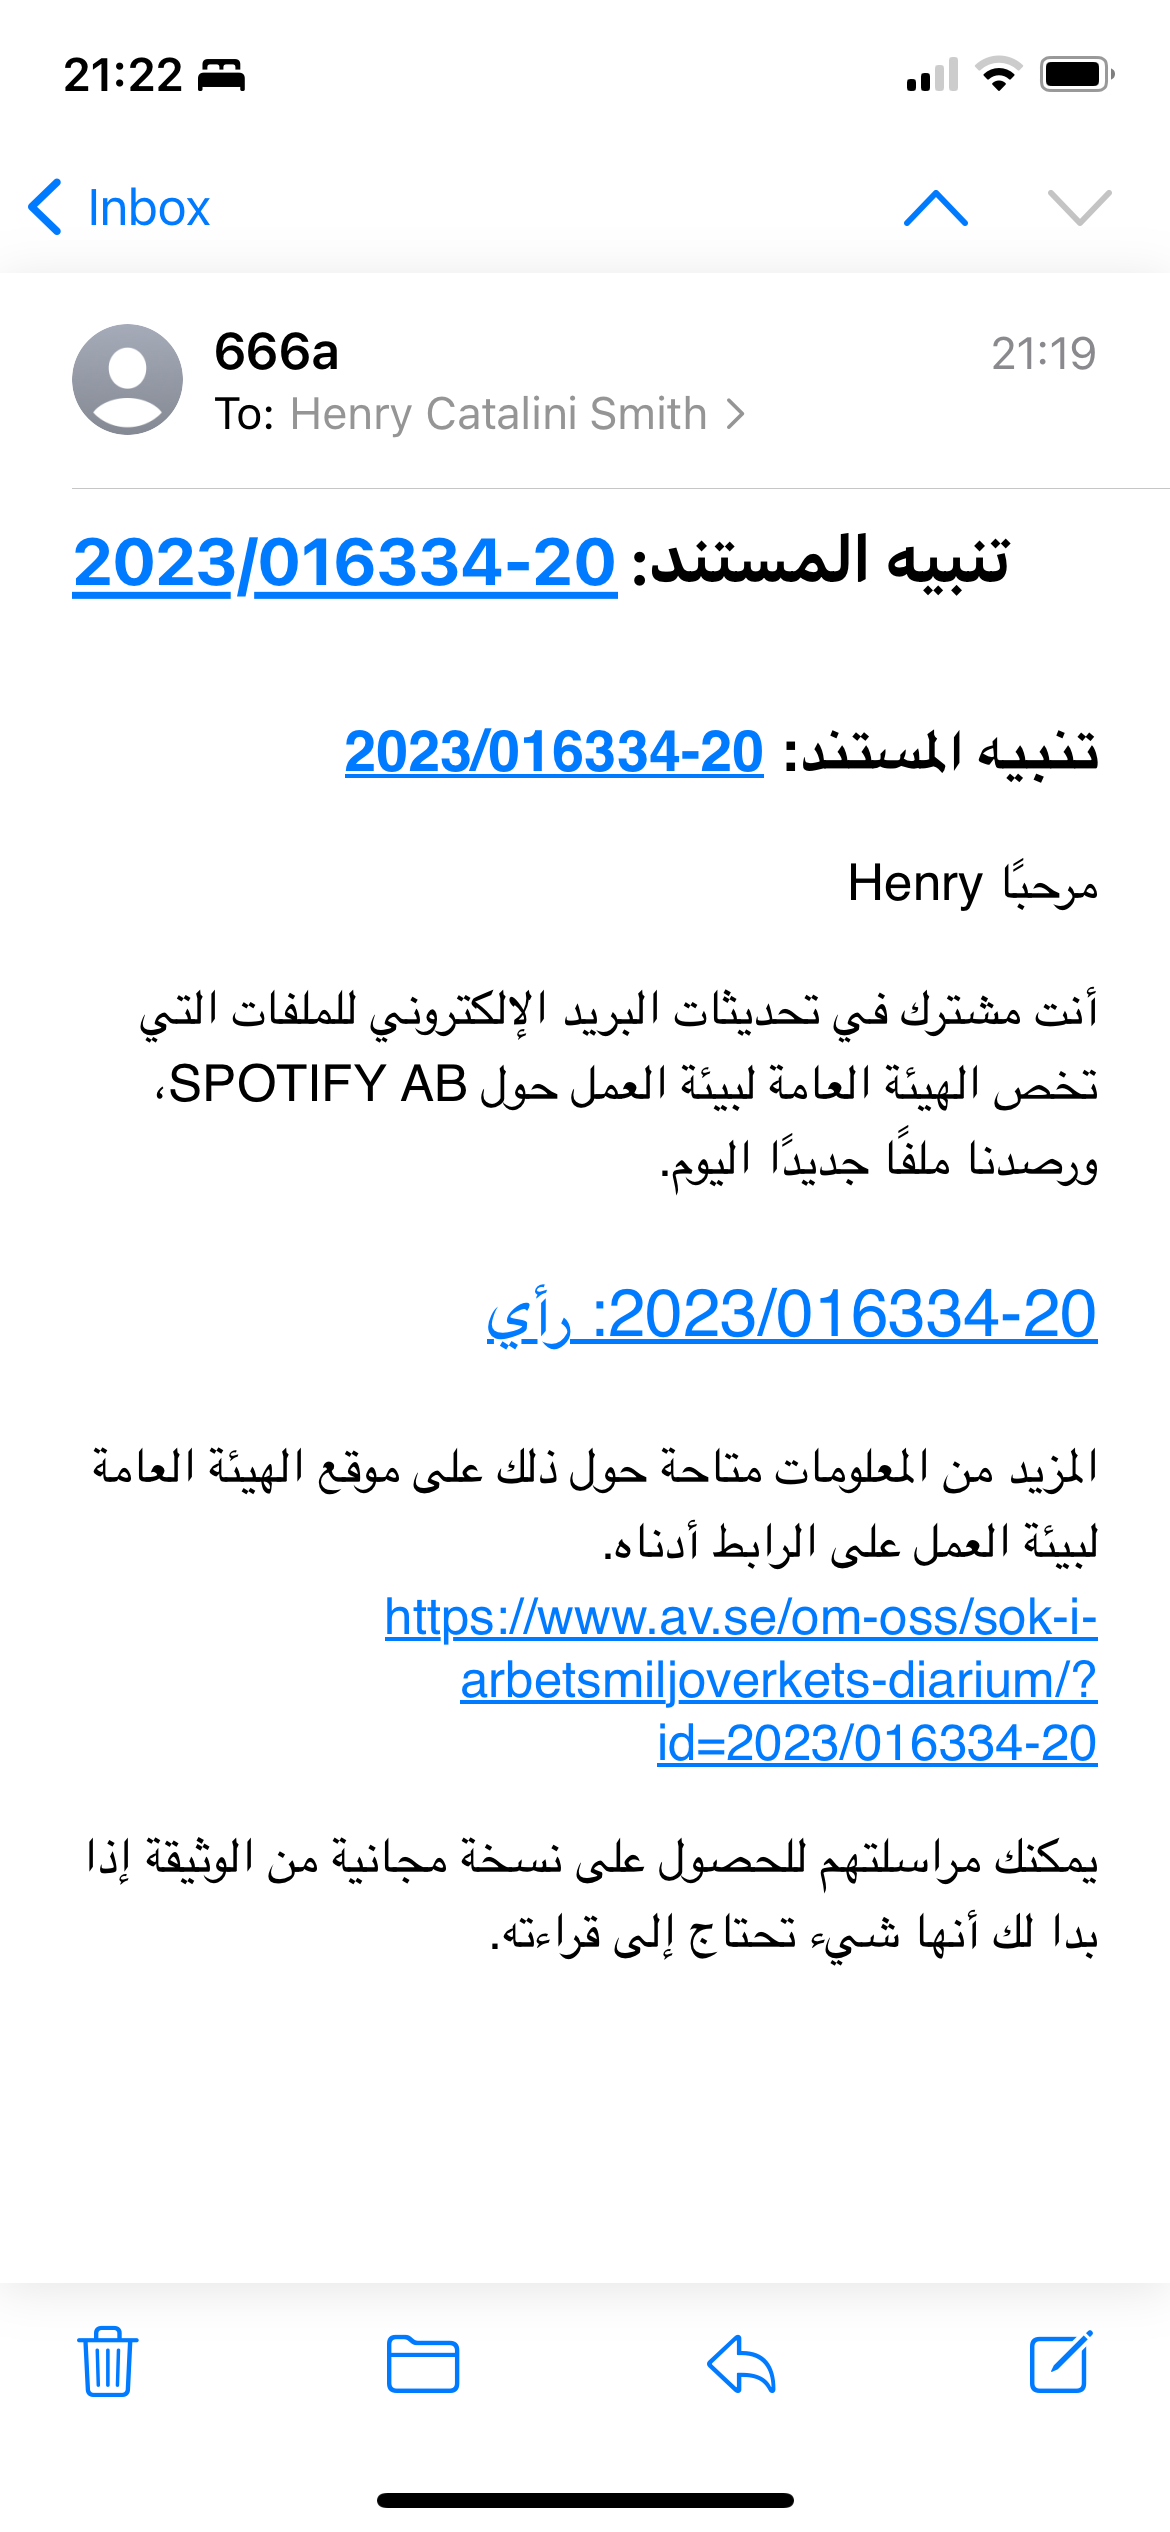
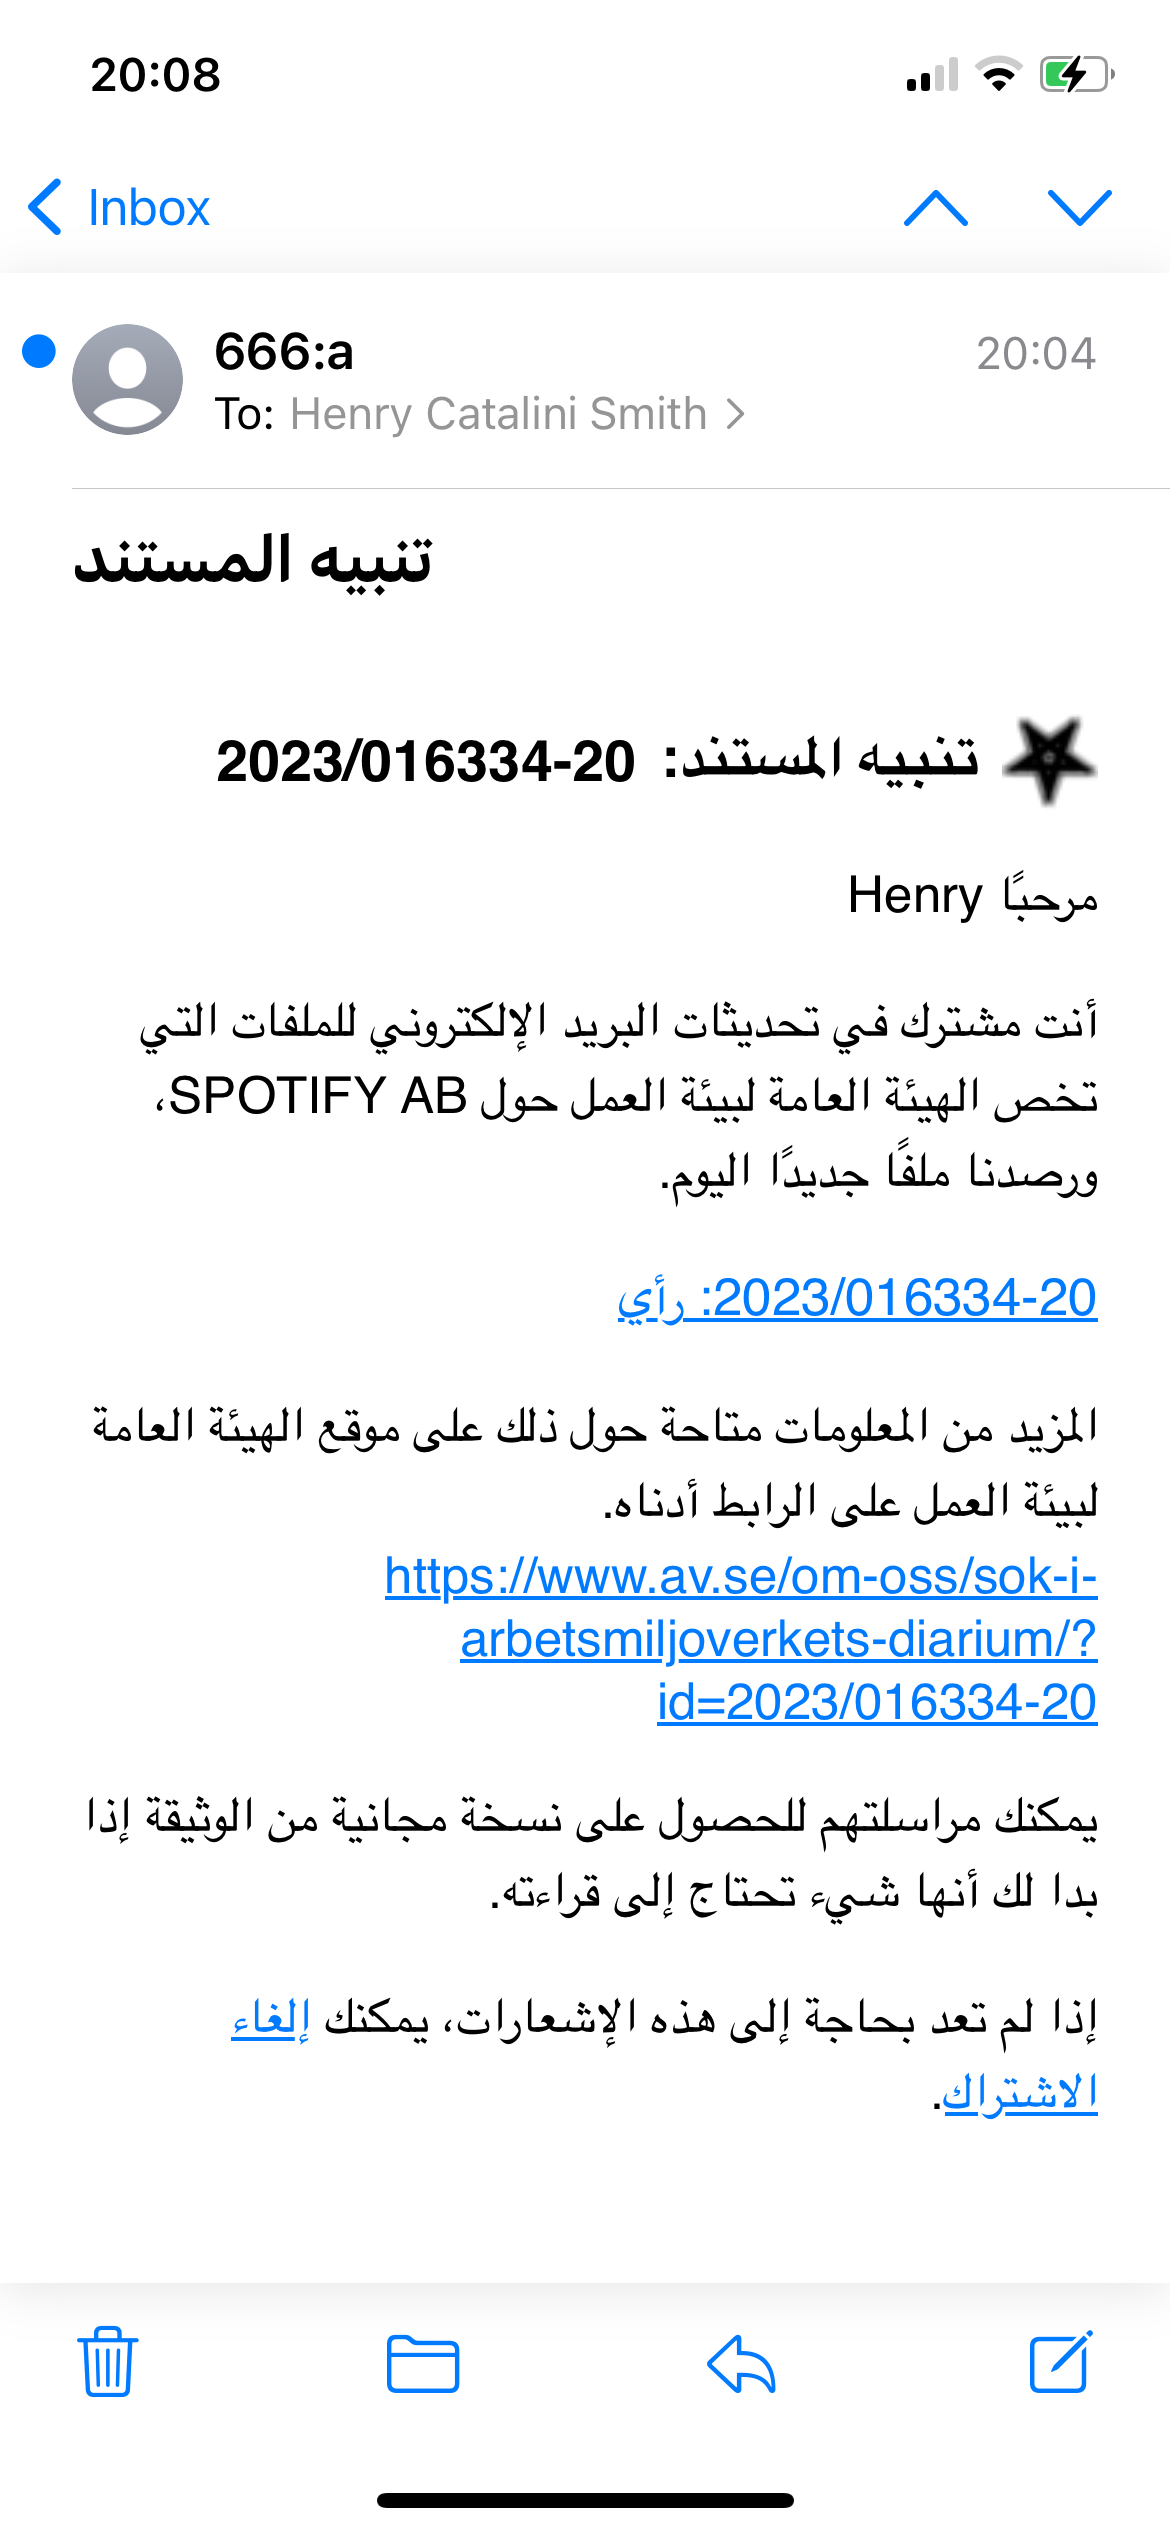
fix

diff --git a/test/mailers/previews/notification_email_preview.rb b/test/mailers/previews/notification_email_preview.rb
@@ -1,13 +1,13 @@
 class NotificationEmailPreview < ActionMailer::Preview
   def company_subscription
-    @notification = Notification.new
-    @notification.document = Document.new(
+    @notification = WorkEnvironment::Notification.new
+    @notification.document = WorkEnvironment::Document.new(
       company_name: "EXEMPEL AB",
       document_code: "000000-0000",
       document_date: Date.today,
       document_type: "Komplettering",
     )
-    @notification.subscription = Subscription.new(
+    @notification.subscription = WorkEnvironment::Subscription.new(
       id: "abcdef12345",
       subscription_type: :company_subscription,
      )
@@ -16,14 +16,14 @@ class NotificationEmailPreview < ActionMailer::Preview
   end
 
   def workplace_subscription
-    @notification = Notification.new
-    @notification.document = Document.new(
+    @notification = WorkEnvironment::Notification.new
+    @notification.document = WorkEnvironment::Document.new(
       workplace_name: "FÖRKSOLAN EXEMPEL",
       document_code: "000000-0000",
       document_date: Date.today,
       document_type: "Komplettering",
     )
-    @notification.subscription = Subscription.new(
+    @notification.subscription = WorkEnvironment::Subscription.new(
       id: "abcdef12345",
       subscription_type: :workplace_subscription,
     )

diff --git a/app/mailers/notification_mailer.rb b/app/mailers/notification_mailer.rb
@@ -10,7 +10,7 @@ class NotificationMailer < ApplicationMailer
       mail(
         to: @user.email,
         subject: t("notification_email.subject"),
-        from: "666:a <henry@666a.se>"
+        from: '"666:a" <henry@666a.se>'
       )
     end
   end
